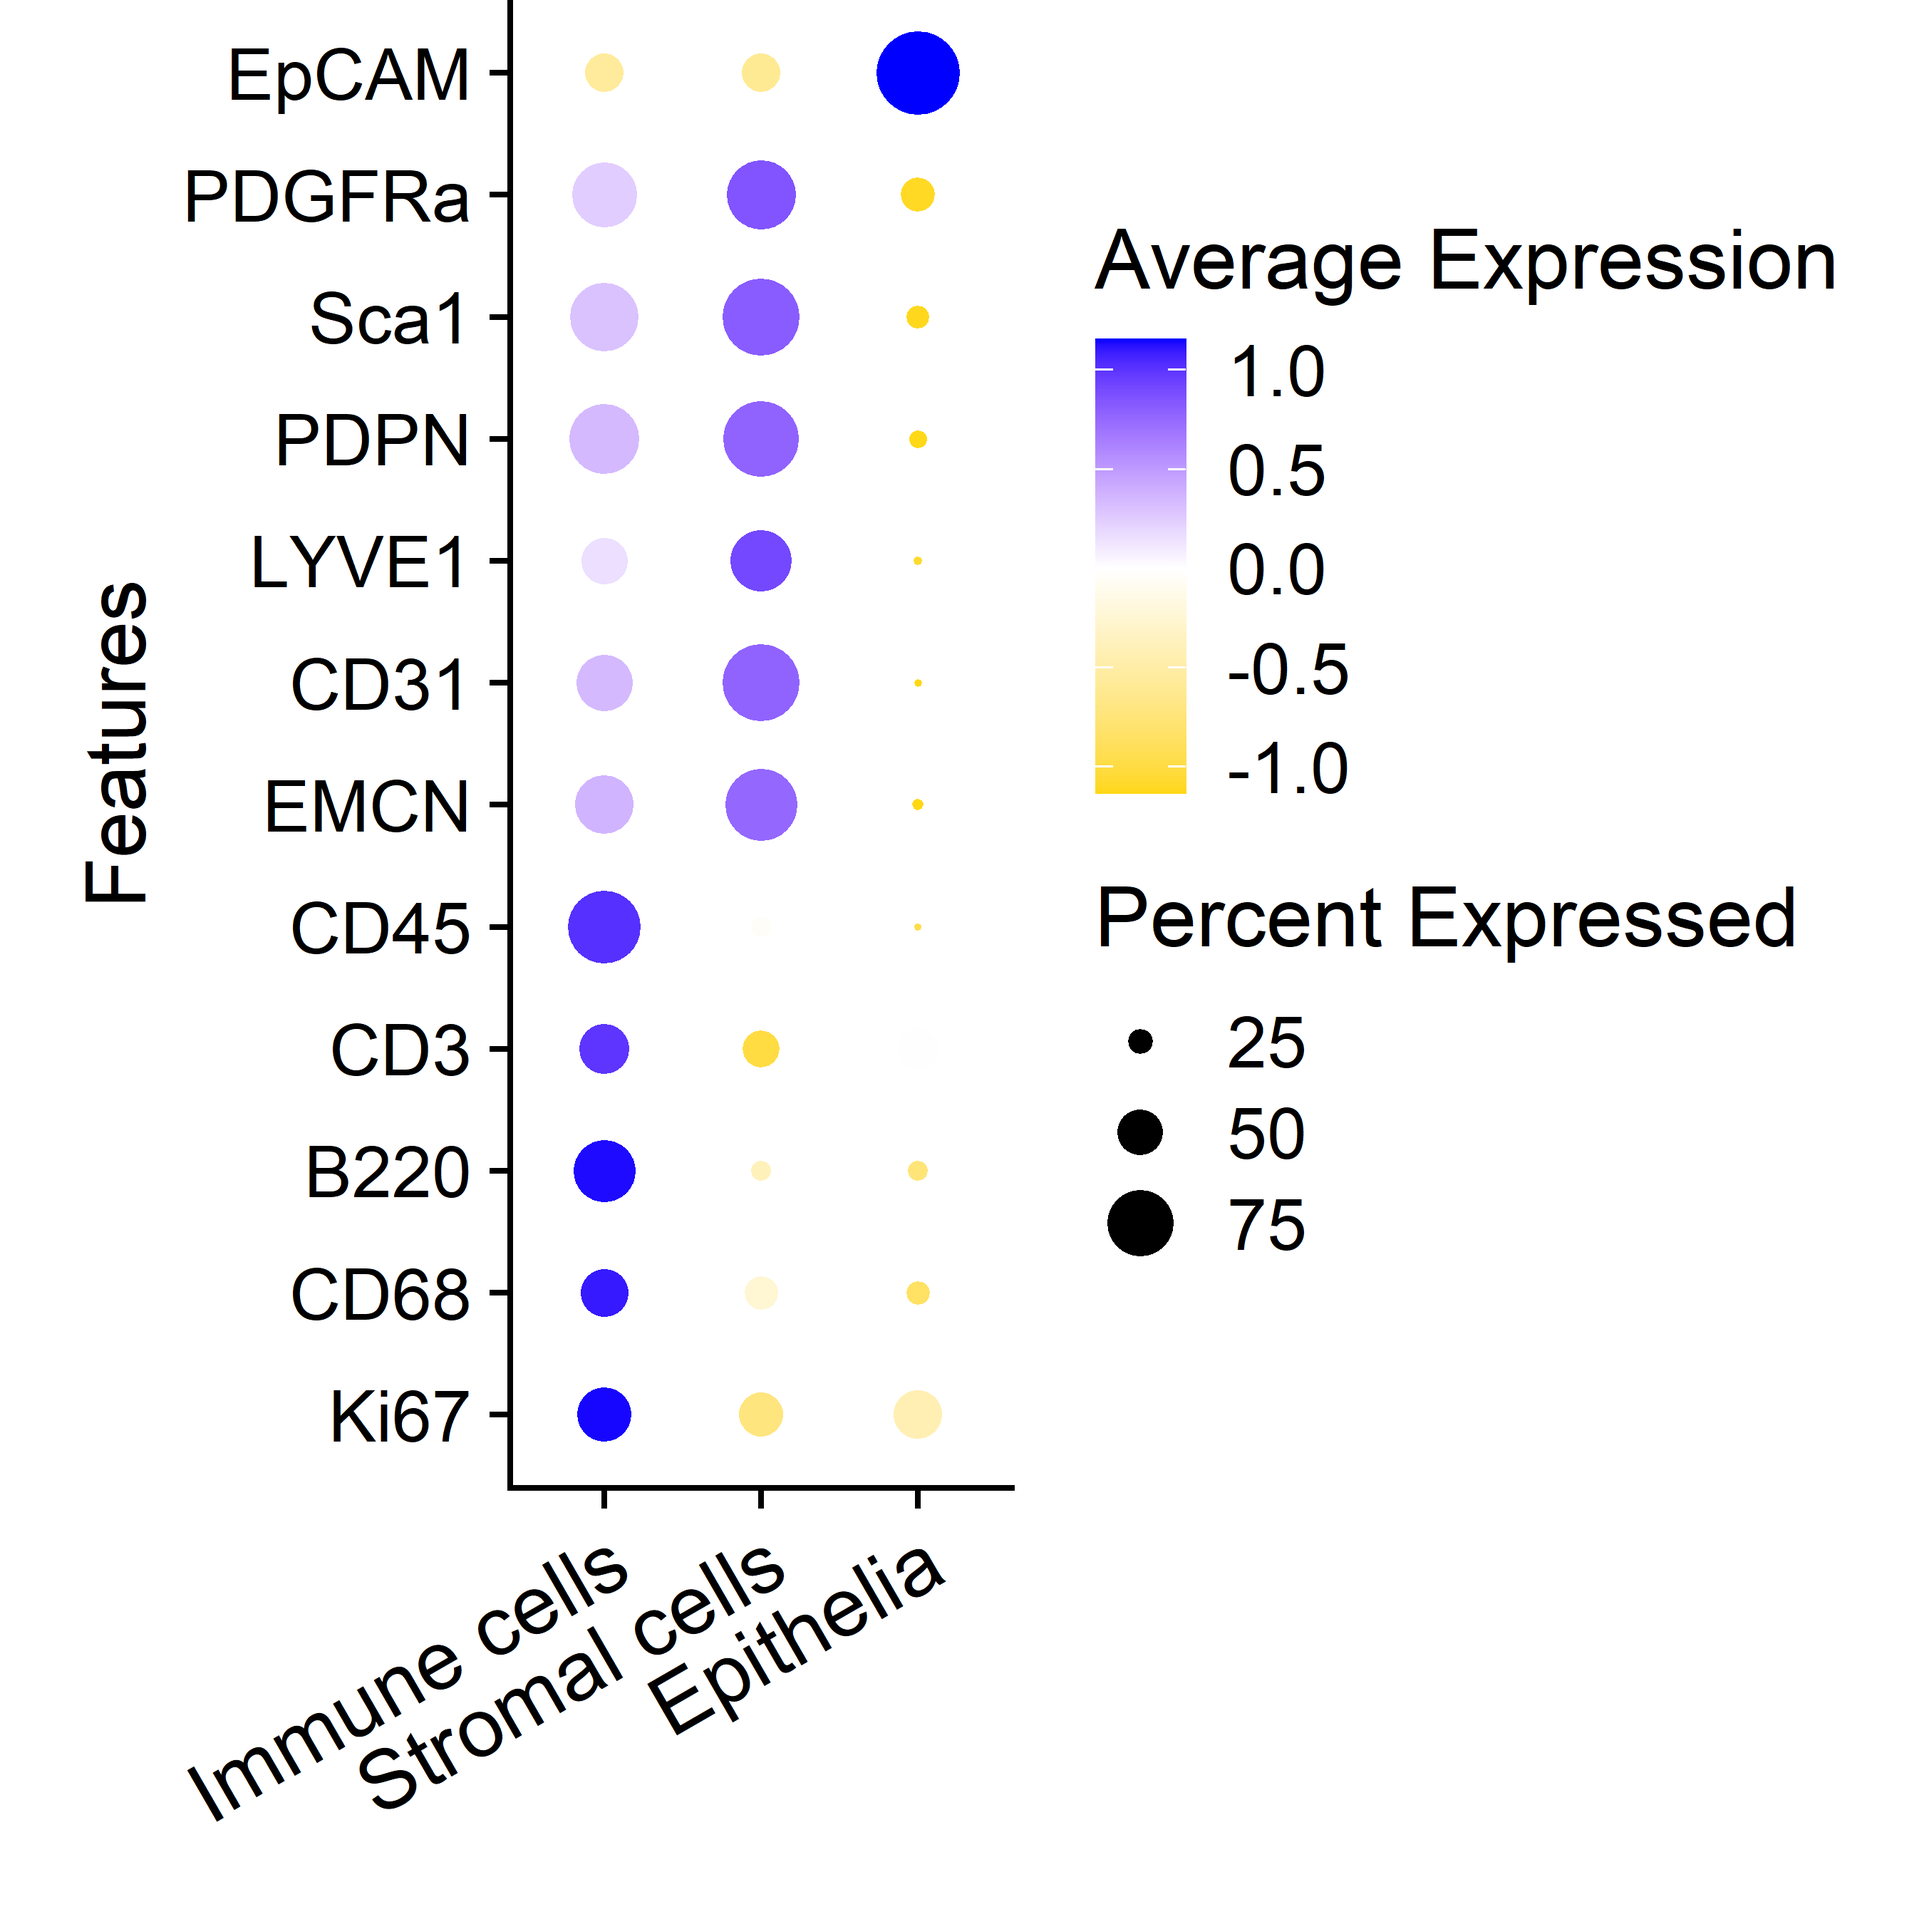
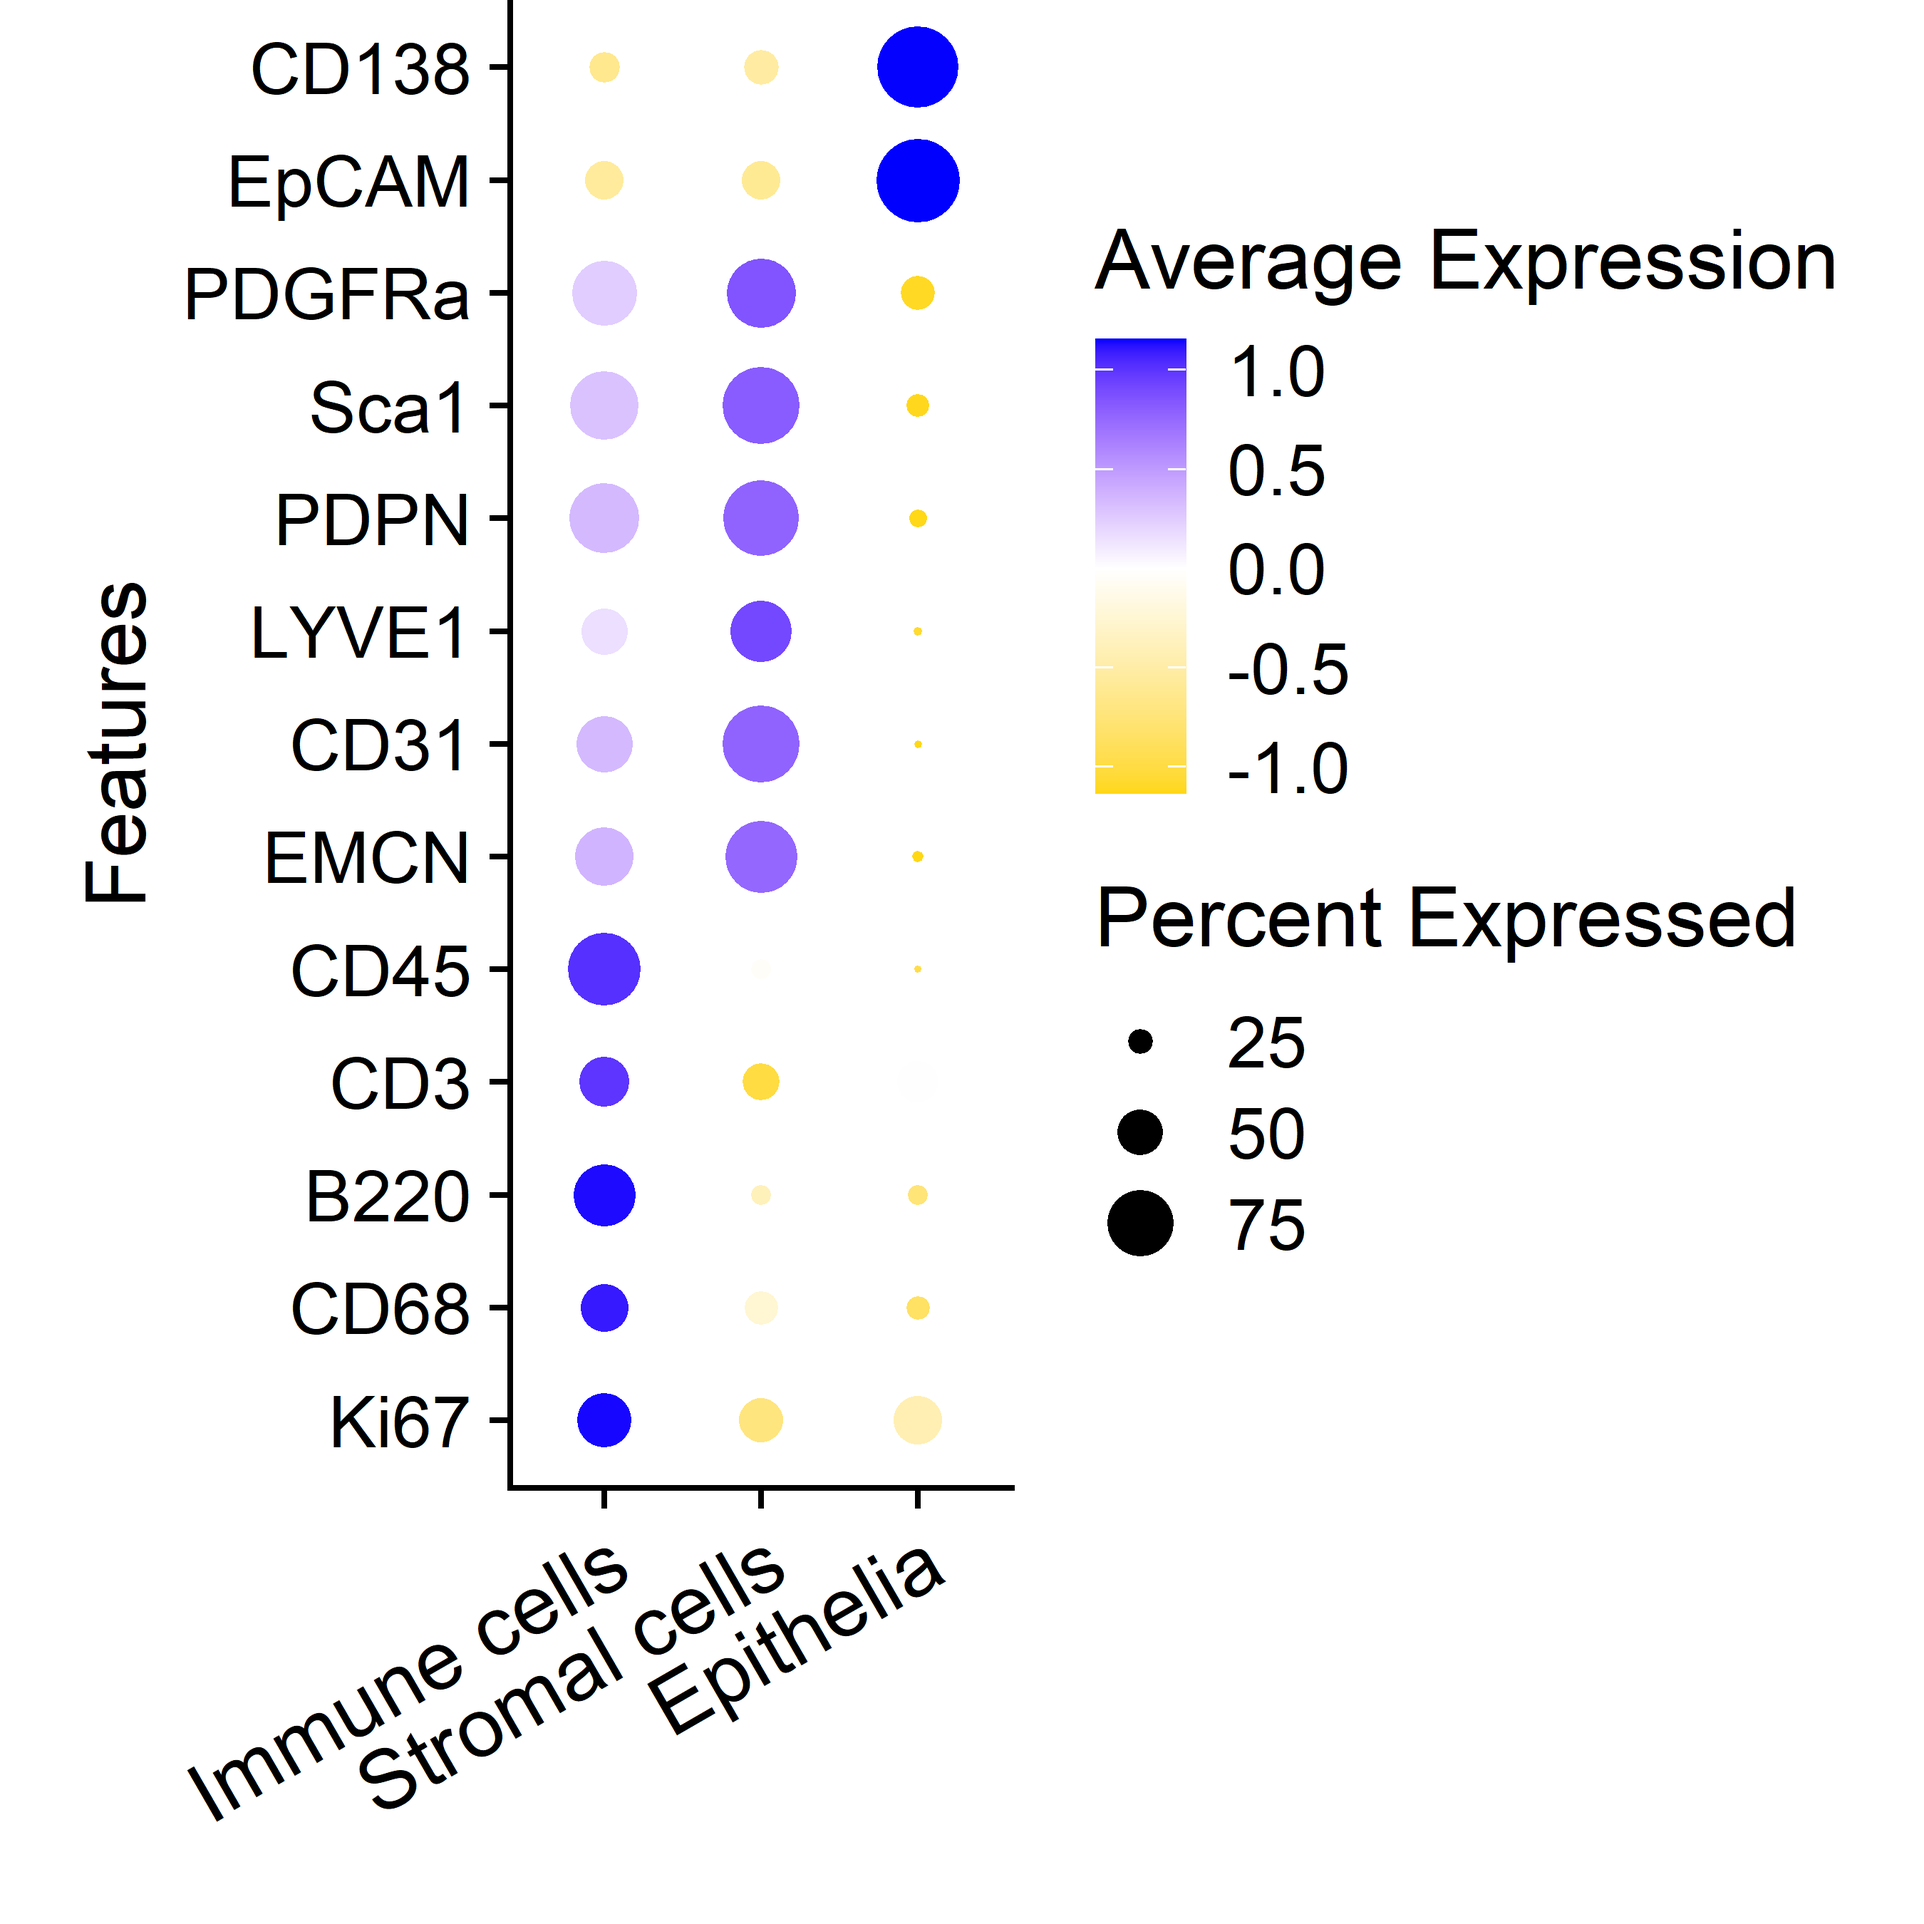
Added CD138 to dotplot as epithelial cells can be CD138 positive. Reknitted rmd file

diff --git a/2_visualizations_for_figures/Fig_2_major_cell_types_lung.md b/2_visualizations_for_figures/Fig_2_major_cell_types_lung.md
@@ -1,7 +1,7 @@
 ---
 title: "Figure 2: major immune and non-immune cell types lung"
 author: "Sandy Kroh"
-date: "May 16, 2025"
+date: "May 20, 2025"
 output:
   html_document:
     toc: yes
@@ -124,7 +124,8 @@ dot_plot <- Seurat::DotPlot(SO.lung,
                     "PDPN",
                     "Sca1",
                     "PDGFRa",
-                    "EpCAM"
+                    "EpCAM", 
+                    "CD138"
                   ), 
                 cols ="RdBu", assay = "MELC")+   
     RotatedAxis()+
